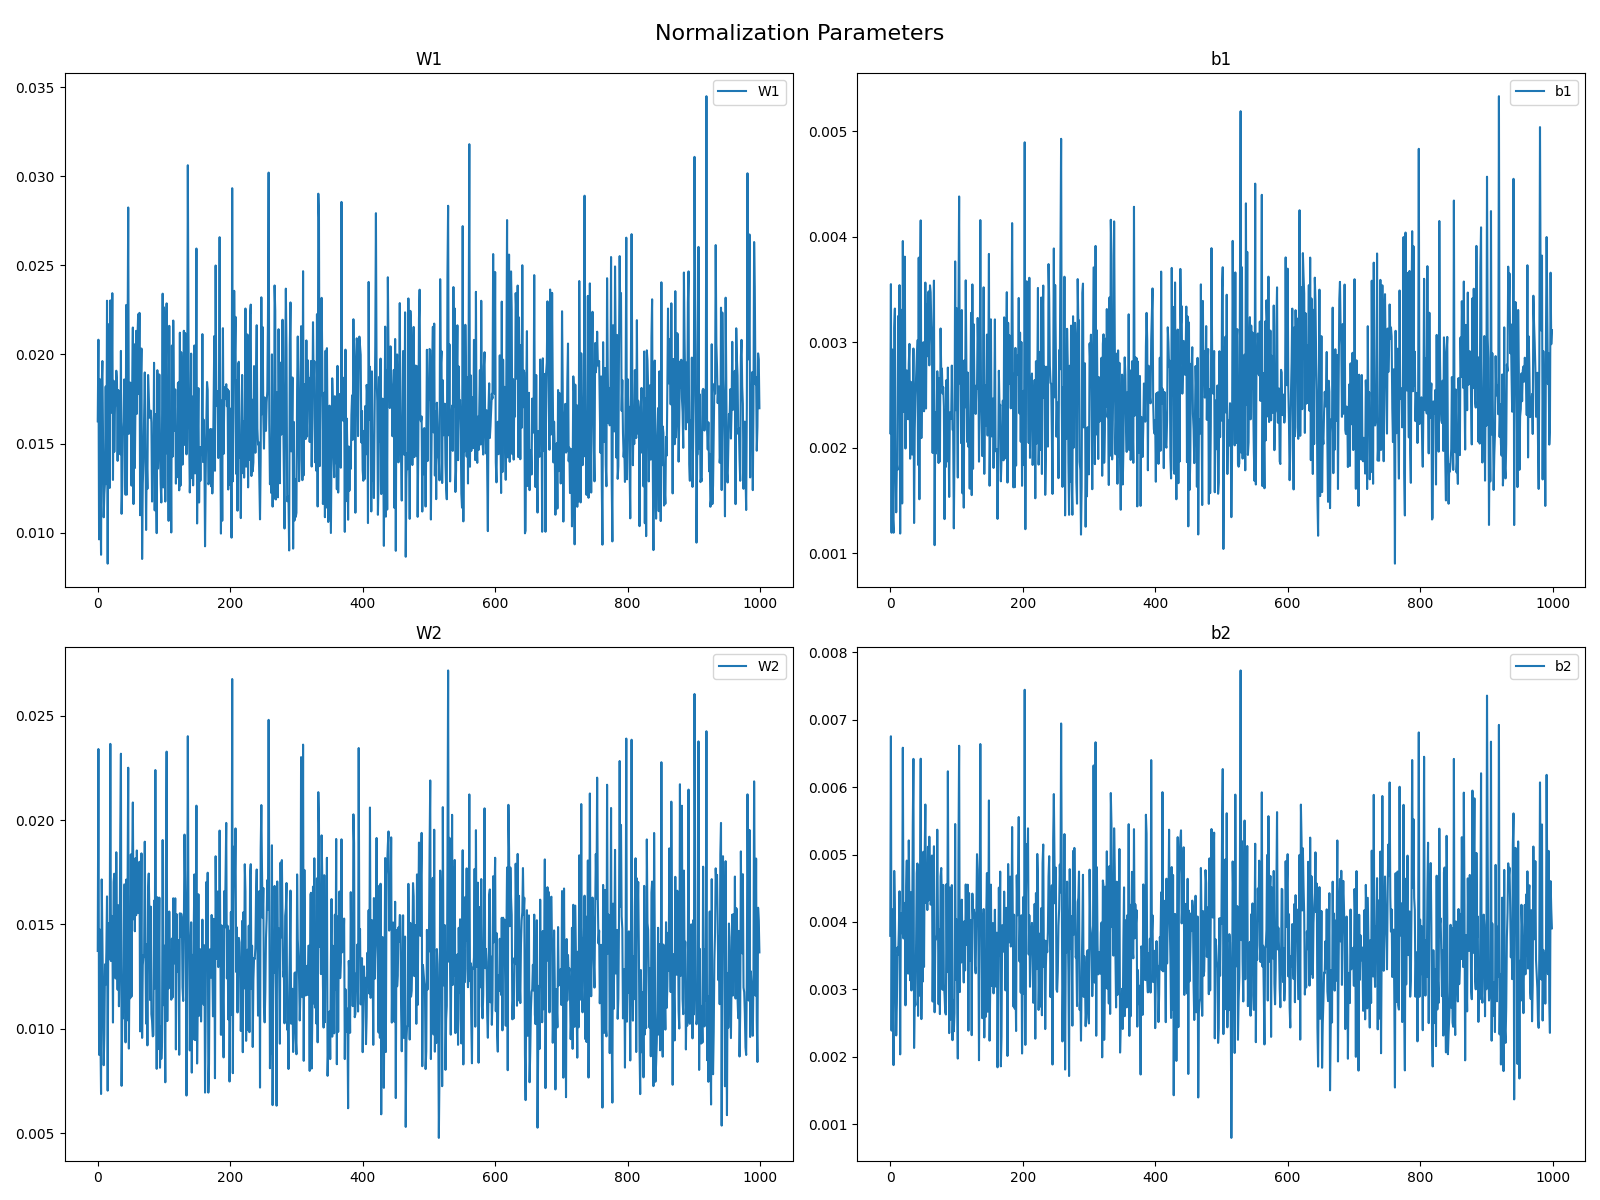
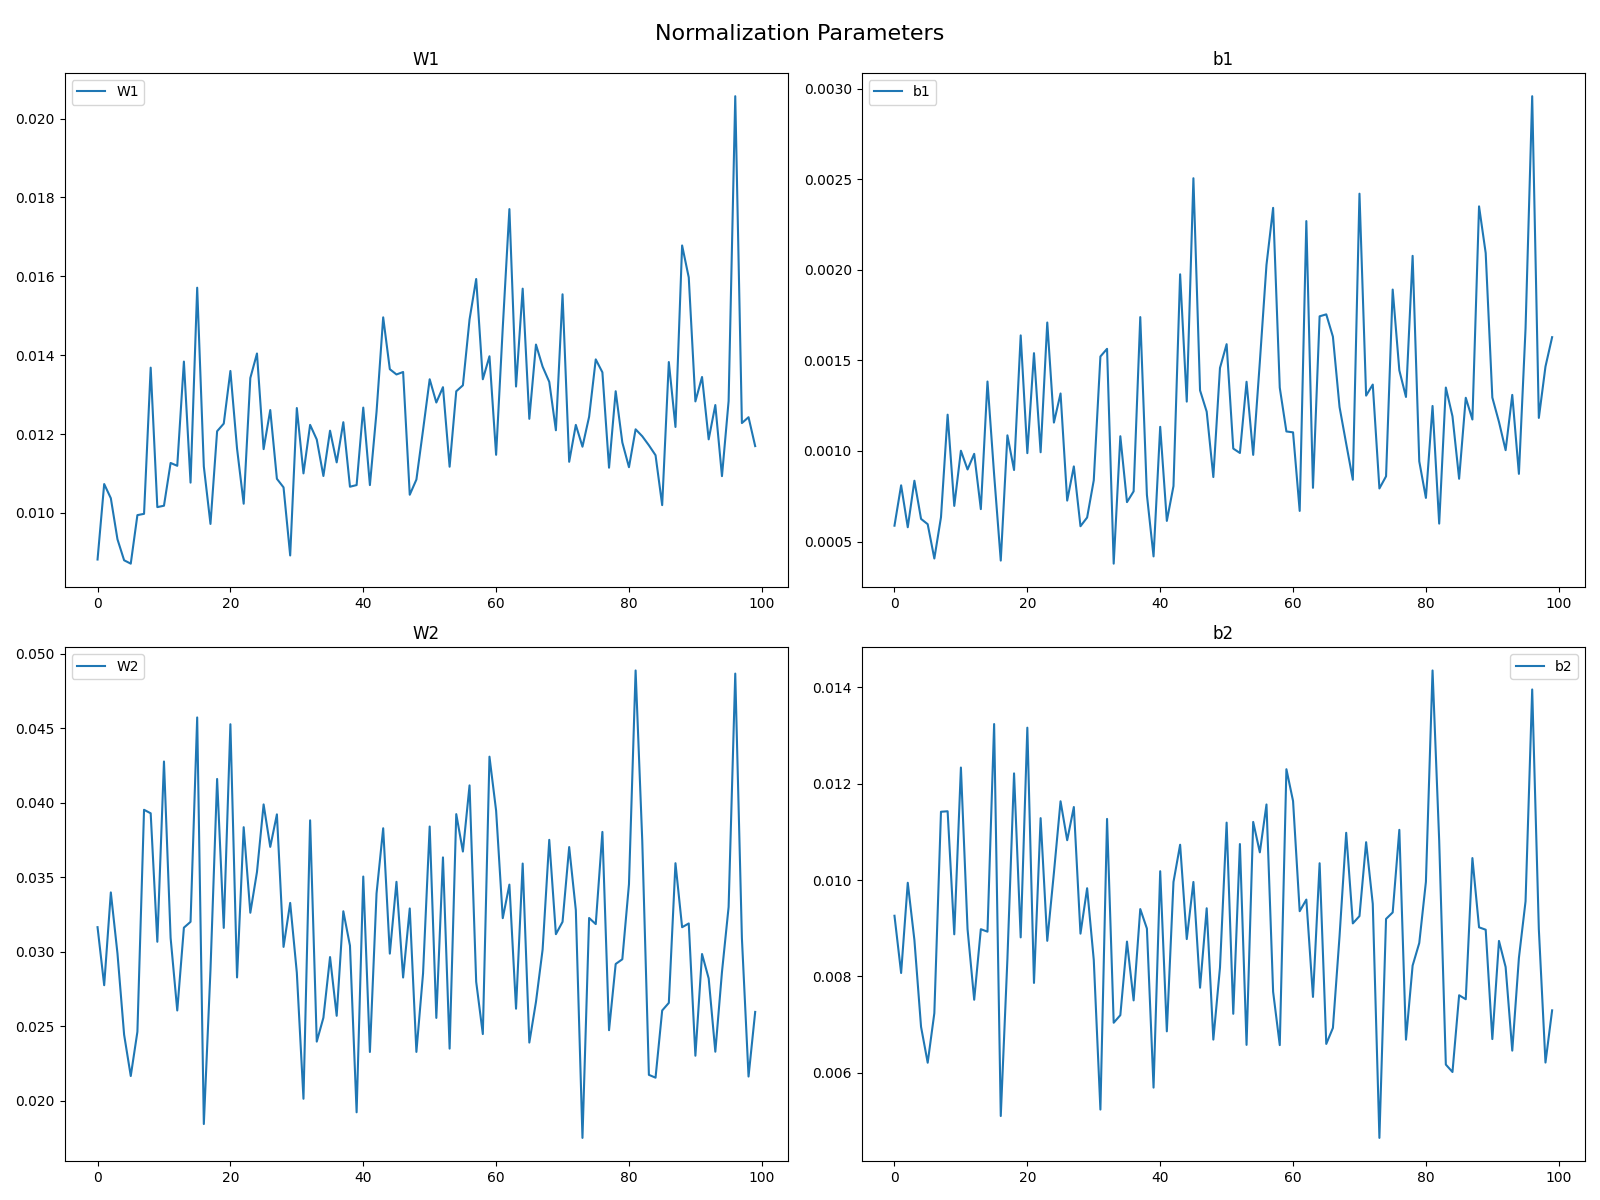
.

diff --git a/2024.4.3_自己研究_Lyapunov_Spectrum_of_Neural_Networks/analysis/main.py b/2024.4.3_自己研究_Lyapunov_Spectrum_of_Neural_Networks/analysis/main.py
@@ -4,13 +4,14 @@ import matplotlib.pyplot as plt
 import os
 import sys
 
-client = pymongo.MongoClient("mongodb://acan_read:020301@localhost:27017/")
+client = pymongo.MongoClient(
+    "mongodb://acan_read_and_write:020301@localhost:27017/")
 db = client["local"]
 collection = db["data_20240403"]
 
-rnd = 3
+rnd = int(sys.argv[1])
 
-clc = collection.find().skip(rnd*1000).limit(1000)
+clc = collection.find().skip(rnd*100).limit(101)
 
 W1 = []
 W2 = []
@@ -27,11 +28,11 @@ W2 = []
 b1 = []
 b2 = []
 
-for i in range(1001):
+for i in range(101):
 
-    print(f"Processing {i+rnd*1000}th data...")
+    print(f"Processing {i+rnd*100}th data...")
 
-    data = clc[i+rnd*1000]
+    data = clc[i+rnd*100]
     _W1 = data["W1"]
     _W2 = data["W2"]
     W1.append(np.matrix(_W1))
@@ -41,7 +42,7 @@ for i in range(1001):
     b1.append(np.array(_b1))
     b2.append(np.array(_b2))
 
-for i in range(1000):
+for i in range(100):
     tmp_1.append(np.linalg.norm(W1[i]-W1[i+1], ord=2))
     tmp_2.append(np.linalg.norm(b1[i]-b1[i+1], ord=2))
     tmp_3.append(np.linalg.norm(W2[i]-W2[i+1], ord=2))
@@ -52,20 +53,30 @@ tmp_2 = np.array(tmp_2)
 tmp_3 = np.array(tmp_3)
 tmp_4 = np.array(tmp_4)
 
-fig, axs = plt.subplots(2, 2, figsize=(16, 12))
-axs[0, 0].plot(tmp_1, label="W1")
-axs[0, 0].legend()
-axs[0, 0].set_title("W1")
-axs[0, 1].plot(tmp_2, label="b1")
-axs[0, 1].legend()
-axs[0, 1].set_title("b1")
-axs[1, 0].plot(tmp_3, label="W2")
-axs[1, 0].legend()
-axs[1, 0].set_title("W2")
-axs[1, 1].plot(tmp_4, label="b2")
-axs[1, 1].legend()
-axs[1, 1].set_title("b2")
-plt.suptitle("Normalization Parameters", fontsize=16)
-plt.tight_layout()
-plt.savefig(os.path.join(os.path.dirname(
-    __file__), "images", "norm_params.png"))
+collection_norm = db["N_Form"]
+for i in range(100):
+    collection_norm.insert_one({
+        "index": i+rnd*100,
+        "W1": tmp_1[i],
+        "b1": tmp_2[i],
+        "W2": tmp_3[i],
+        "b2": tmp_4[i]
+    })
+
+# fig, axs = plt.subplots(2, 2, figsize=(16, 12))
+# axs[0, 0].plot(tmp_1, label="W1")
+# axs[0, 0].legend()
+# axs[0, 0].set_title("W1")
+# axs[0, 1].plot(tmp_2, label="b1")
+# axs[0, 1].legend()
+# axs[0, 1].set_title("b1")
+# axs[1, 0].plot(tmp_3, label="W2")
+# axs[1, 0].legend()
+# axs[1, 0].set_title("W2")
+# axs[1, 1].plot(tmp_4, label="b2")
+# axs[1, 1].legend()
+# axs[1, 1].set_title("b2")
+# plt.suptitle("Normalization Parameters", fontsize=16)
+# plt.tight_layout()
+# plt.savefig(os.path.join(os.path.dirname(
+#     __file__), "images", "norm_params.png"))

diff --git a/2024.4.3_自己研究_Lyapunov_Spectrum_of_Neural_Networks/analysis/tmp.py b/2024.4.3_自己研究_Lyapunov_Spectrum_of_Neural_Networks/analysis/tmp.py
@@ -1,0 +1,5 @@
+import pymongo
+
+client = pymongo.MongoClient("mongodb://acan_read_and_write:020301@localhost:27017/")
+db = client["local"]
+collection = db.create_collection("N_Form")
